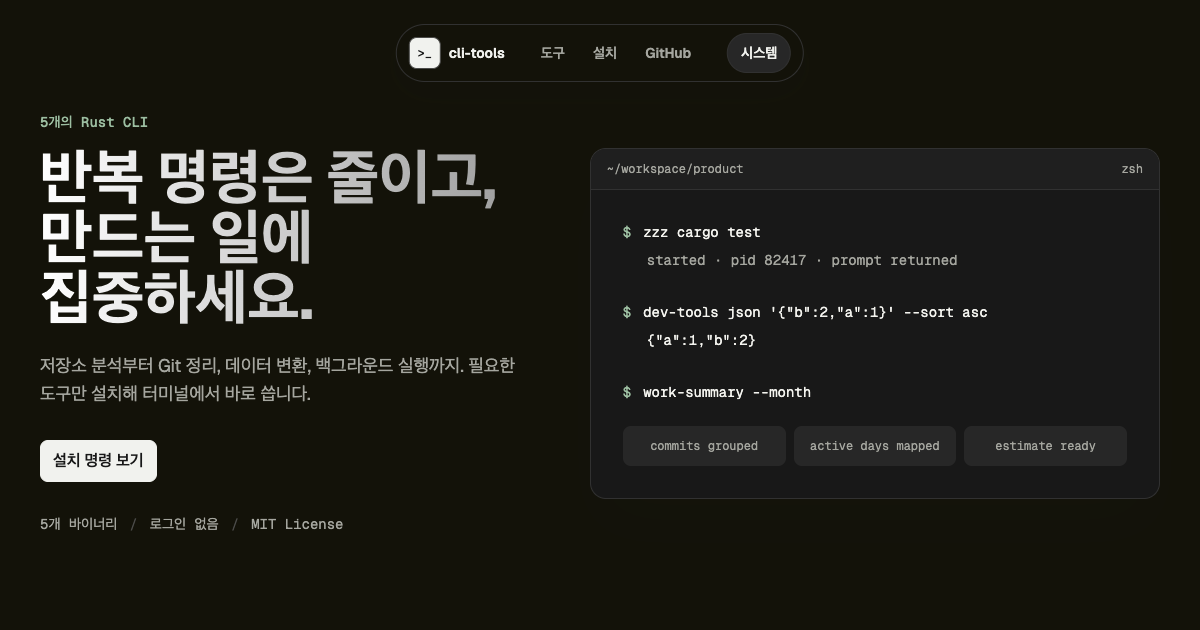
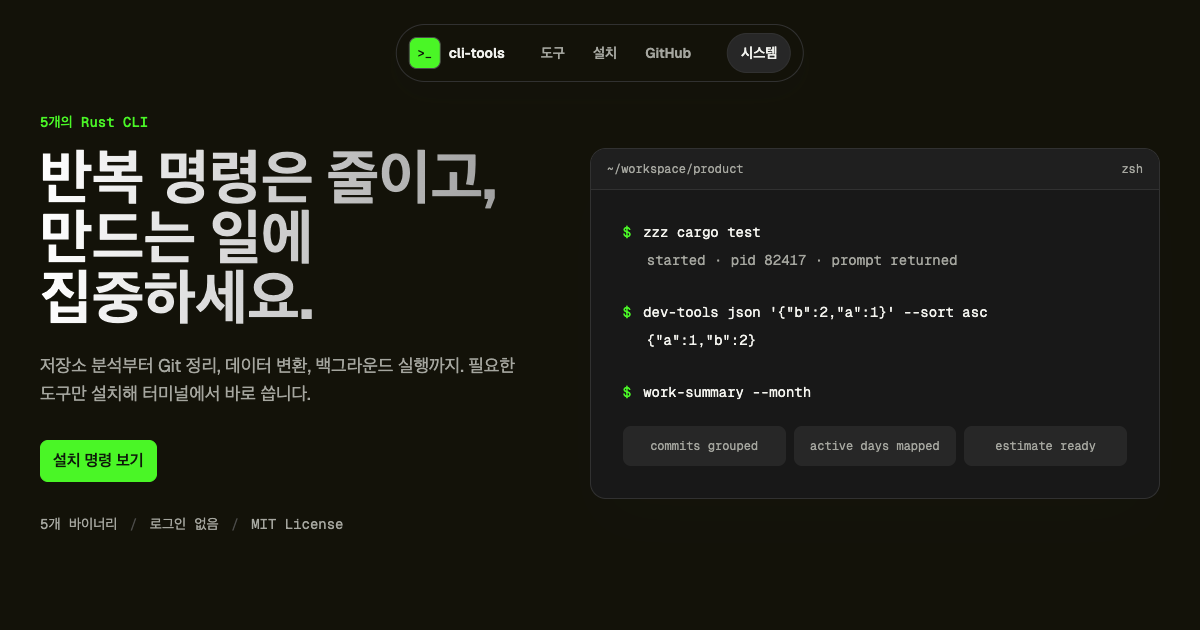
feat(site): adopt #4AF626 primary color

Changed region(s): [[0.0308, 0.6937, 0.1542, 0.7841], [0.0308, 0.181, 0.1233, 0.2111], [0.3392, 0.0603, 0.37, 0.1206]]

diff --git a/site/src/styles.css b/site/src/styles.css
@@ -11,16 +11,17 @@
   --muted: #66655f;
   --line: #dad6c9;
   --line-strong: #bdb8aa;
-  --accent: #4d6b50;
-  --accent-soft: #e0e8df;
-  --accent-ink: #2e4d32;
-  --primary: #171712;
-  --primary-ink: #ffffff;
+  --primary: #4AF626;
+  --primary-ink: #0d1a09;
+  --accent: #1f7410;
+  --accent-solid: var(--primary);
+  --accent-soft: #d7fdcf;
+  --accent-ink: #1f7410;
   --terminal-bg: #181818;
   --terminal-surface: #1f1f1f;
   --terminal-line: #313131;
   --terminal-text: #f4f4ef;
-  --focus: #4d6b50;
+  --focus: #1f7410;
   --tagline-muted: #66655f;
   --radius: 16px;
   --radius-small: 8px;
@@ -40,12 +41,13 @@
   --muted: #a5a69f;
   --line: #313131;
   --line-strong: #4b4b49;
-  --accent: #9cbea1;
-  --accent-soft: #272727;
-  --accent-ink: #b7d2ba;
-  --primary: #f1f2ee;
-  --primary-ink: #181818;
-  --focus: #a7c5aa;
+  --primary: #4AF626;
+  --primary-ink: #0d1a09;
+  --accent: #4AF626;
+  --accent-solid: var(--primary);
+  --accent-soft: #193d11;
+  --accent-ink: #4AF626;
+  --focus: #4AF626;
   --tagline-muted: #a5a69f;
 }
 
@@ -296,17 +298,13 @@ kbd {
   display: none;
   align-items: center;
   justify-content: center;
-  background: rgb(255 255 255 / 0.8);
+  background: color-mix(in srgb, var(--bg) 96%, transparent);
   opacity: 0;
   pointer-events: none;
   visibility: hidden;
   backdrop-filter: blur(48px);
   -webkit-backdrop-filter: blur(48px);
   transition: all 700ms var(--ease-fluid);
-}
-
-:root[data-theme="dark"] .mobile-menu {
-  background: rgb(0 0 0 / 0.8);
 }
 
 .mobile-menu nav {
@@ -522,7 +520,7 @@ kbd {
 }
 
 .terminal-prompt {
-  color: #9cbea1;
+  color: var(--primary);
 }
 
 .terminal-result,
@@ -759,7 +757,7 @@ kbd {
   height: 8px;
   margin-right: 12px;
   border-radius: 50%;
-  background: var(--accent);
+  background: var(--accent-solid);
   content: "";
   vertical-align: 1px;
 }
@@ -917,7 +915,7 @@ kbd {
   width: 8px;
   height: 8px;
   border-radius: 50%;
-  background: var(--accent);
+  background: var(--accent-solid);
   content: "";
 }
 
@@ -1124,7 +1122,7 @@ kbd {
 }
 
 .terminal-preview__body p > span {
-  color: #9ec4a3;
+  color: var(--primary);
 }
 
 .terminal-preview__muted {
@@ -1268,7 +1266,7 @@ kbd {
   height: 4px;
   transform: translateY(-50%);
   border-radius: 50%;
-  background: var(--accent);
+  background: var(--accent-solid);
   content: "";
 }
 

diff --git a/site/public/legal.css b/site/public/legal.css
@@ -37,10 +37,10 @@
   --text: #171712;
   --muted: #66655f;
   --line: #dad6c9;
-  --accent: #4d6b50;
-  --button: #171712;
-  --button-text: #ffffff;
-  --focus: #4d6b50;
+  --primary: #4AF626;
+  --primary-ink: #0d1a09;
+  --accent: #1f7410;
+  --focus: #1f7410;
   --ease-fluid: cubic-bezier(0.32, 0.72, 0, 1);
 }
 
@@ -52,10 +52,10 @@
     --text: #f1f2ee;
     --muted: #a5a69f;
     --line: #313131;
-    --accent: #9cbea1;
-    --button: #f1f2ee;
-    --button-text: #181818;
-    --focus: #a7c5aa;
+    --primary: #4AF626;
+    --primary-ink: #0d1a09;
+    --accent: #4AF626;
+    --focus: #4AF626;
   }
 }
 
@@ -94,8 +94,8 @@ a {
   padding: 8px 12px;
   transform: translateY(-200%);
   border-radius: 8px;
-  background: var(--button);
-  color: var(--button-text);
+  background: var(--primary);
+  color: var(--primary-ink);
   font-size: 0.875rem;
   font-weight: 600;
   line-height: 1.25rem;
@@ -138,8 +138,8 @@ a {
   align-items: center;
   justify-content: center;
   border-radius: 8px;
-  background: var(--button);
-  color: var(--button-text);
+  background: var(--primary);
+  color: var(--primary-ink);
   font-family: "Geist Mono", ui-monospace, monospace;
   font-size: 0.75rem;
   line-height: 1rem;
@@ -266,10 +266,10 @@ h2 {
   width: fit-content;
   margin-top: 32px;
   padding: 8px 12px;
-  border: 1px solid var(--button);
+  border: 1px solid var(--primary);
   border-radius: 8px;
-  background: var(--button);
-  color: var(--button-text);
+  background: var(--primary);
+  color: var(--primary-ink);
   font-size: 1rem;
   font-weight: 600;
   line-height: 1.5rem;

diff --git a/site/src/App.test.jsx b/site/src/App.test.jsx
@@ -38,6 +38,19 @@ describe("cli-tools website", () => {
     expect(css).not.toContain("paperclip");
   });
 
+  test("uses the #4AF626 primary across themes and branded surfaces", () => {
+    const css = readFileSync("src/styles.css", "utf8");
+    const legalCss = readFileSync("public/legal.css", "utf8");
+    const favicon = readFileSync("public/favicon.svg", "utf8");
+
+    expect(css.match(/--primary: #4AF626;/g)).toHaveLength(2);
+    expect(css).toContain("--accent-solid: var(--primary);");
+    expect(css).toContain("color: var(--primary);");
+    expect(legalCss.match(/--primary: #4AF626;/g)).toHaveLength(2);
+    expect(legalCss).not.toContain("--button:");
+    expect(favicon).toContain('fill="#4AF626"');
+  });
+
   test("ships legal routes and a branded route home from 404", () => {
     const privacy = readFileSync("public/privacy.html", "utf8");
     const terms = readFileSync("public/terms.html", "utf8");
